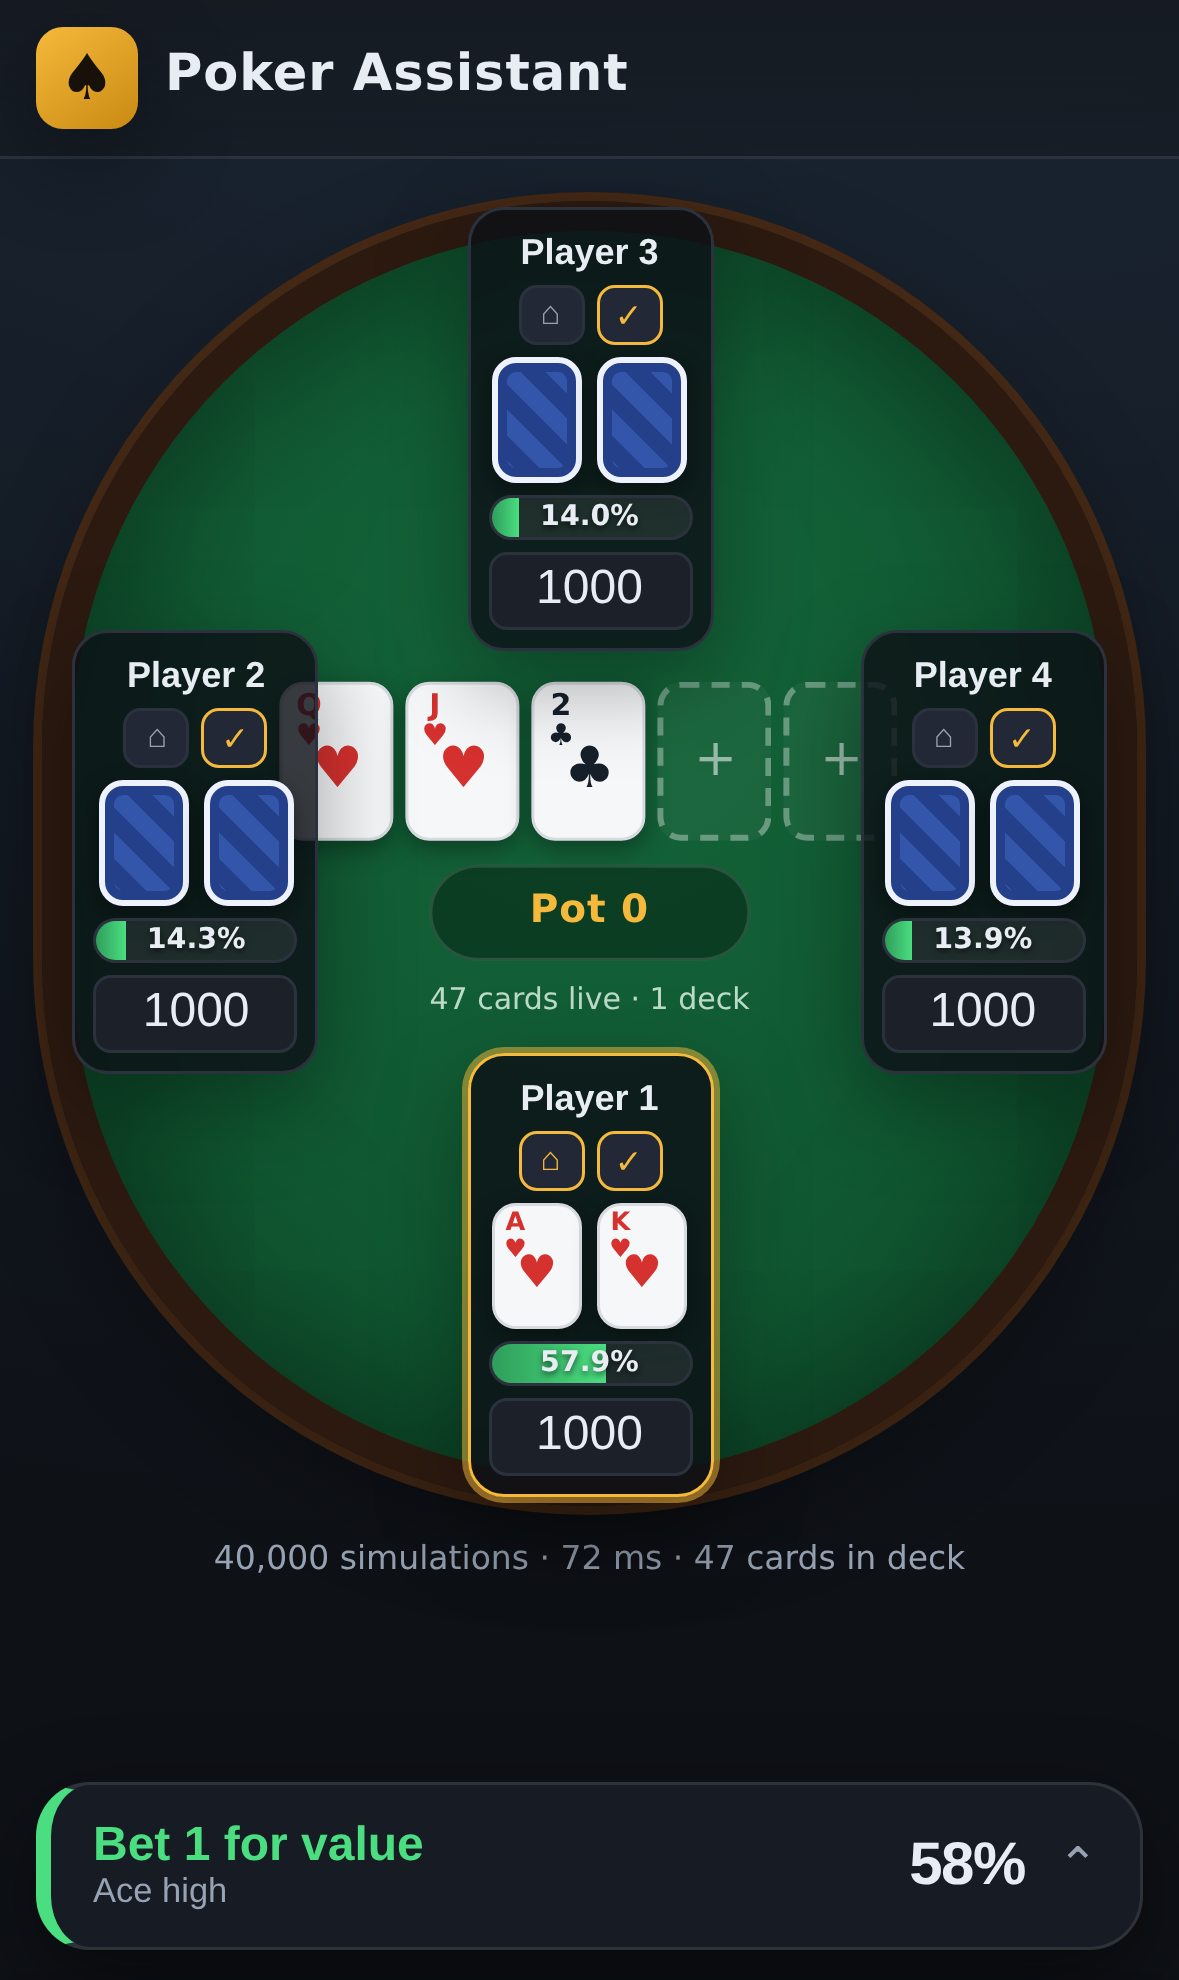
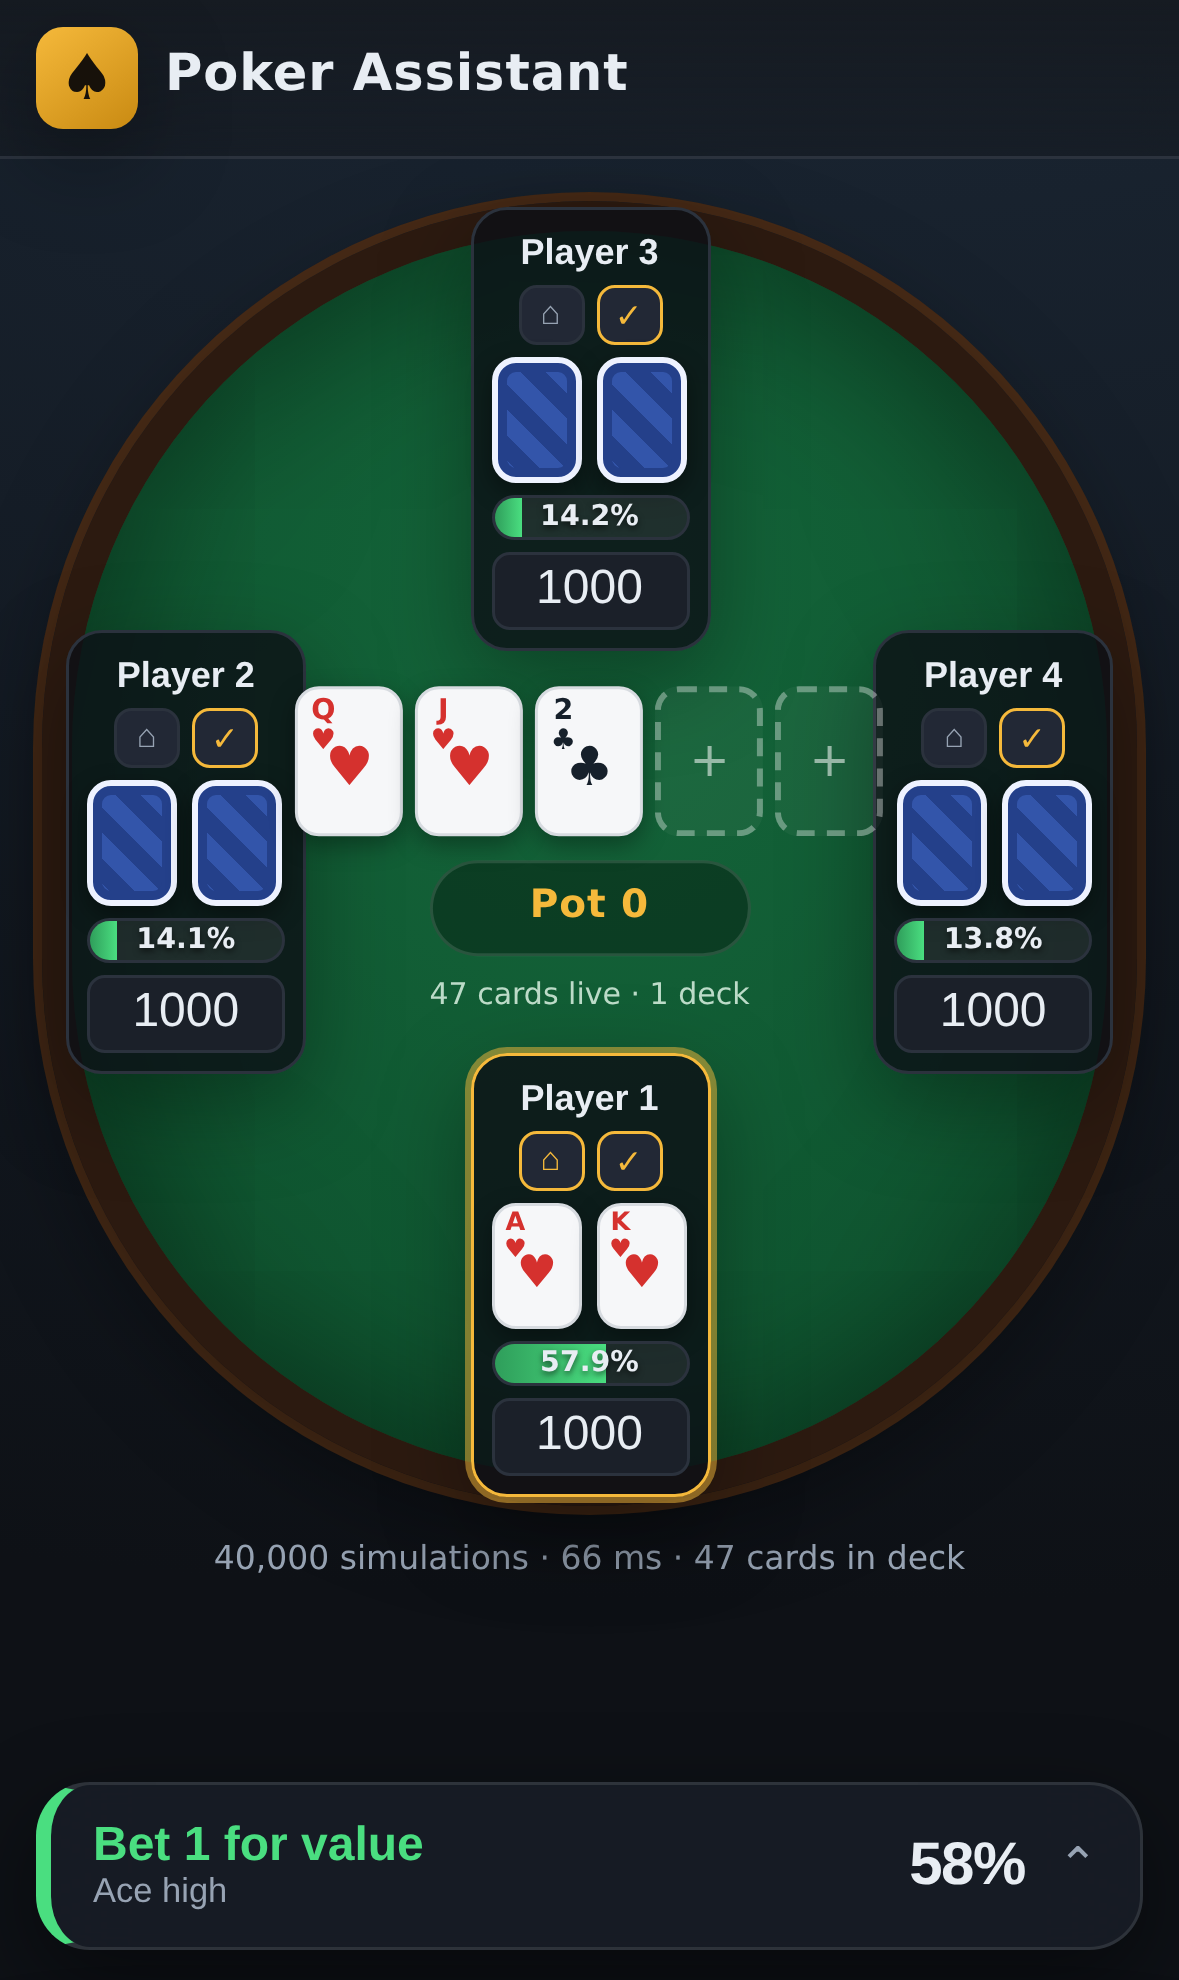
Fix community cards being hidden behind side seats on iPhone
The middle cards shared the vertical centre line with the left/right seats
and rendered underneath their boxes. Put the board on its own layer above
the seats (z-index) and tighten card sizing/seat radius for clearance.

Verified on iPhone SE, 14 Pro and 14 Pro Max at 6/8/10 players with a full
five-card board: an automated elementFromPoint check confirms all five
community cards are the topmost element (never covered by a seat).

Claude-Session: https://claude.ai/code/session_01TBYYXhnsbu8zojBjV1MDuw

diff --git a/css/styles.css b/css/styles.css
@@ -311,17 +311,19 @@ body {
 
   /* Taller felt so seats sit comfortably around the ellipse on portrait. */
   .poker-table { aspect-ratio: 0.84; min-height: 0; border-width: 10px; }
-  .table-center { width: 55%; gap: 8px; }
+  /* The board sits on its own layer ABOVE the seats so the middle cards are
+     always fully visible, even where a side-seat box reaches toward centre. */
+  .table-center { width: 52%; gap: 8px; z-index: 6; }
   .community { gap: 4px; }
-  .card, .slot { width: 38px; height: 53px; }
-  .card .pip { font-size: 19px; }
-  .card .corner { font-size: 10px; top: 3px; left: 4px; }
-  .slot { font-size: 17px; }
+  .card, .slot { width: 36px; height: 50px; }
+  .card .pip { font-size: 18px; }
+  .card .corner { font-size: 9.5px; top: 3px; left: 4px; }
+  .slot { font-size: 16px; }
   .pot { font-size: 13px; padding: 5px 12px; }
   .deck-info { font-size: 10px; }
 
   /* Compact seats: name on its own line so it never truncates to "P…". */
-  .seat { width: 82px; padding: 6px; border-radius: 12px; gap: 4px; position: absolute; }
+  .seat { width: 80px; padding: 6px; border-radius: 12px; gap: 4px; position: absolute; z-index: 2; }
   .seat-top { flex-wrap: wrap; row-gap: 3px; justify-content: center; }
   .seat-name { font-size: 12px; flex: 1 1 100%; min-width: 0; padding: 1px 2px;
     text-align: center; text-overflow: ellipsis; overflow: hidden; white-space: nowrap; }

diff --git a/js/app.js b/js/app.js
@@ -118,7 +118,7 @@
     // Hero at bottom-centre (i=0), others spread evenly around the ellipse.
     // Tighter horizontal radius on phones keeps side seats fully on-screen.
     var narrow = window.matchMedia("(max-width: 700px)").matches;
-    var xR = narrow ? 38 : 44, yR = narrow ? 34 : 40;
+    var xR = narrow ? 39 : 44, yR = narrow ? 34 : 40;
     var pos = [];
     for (var i = 0; i < n; i++) {
       var theta = (Math.PI / 2) + (i * 2 * Math.PI / n); // radians, 0 = right, +y down
